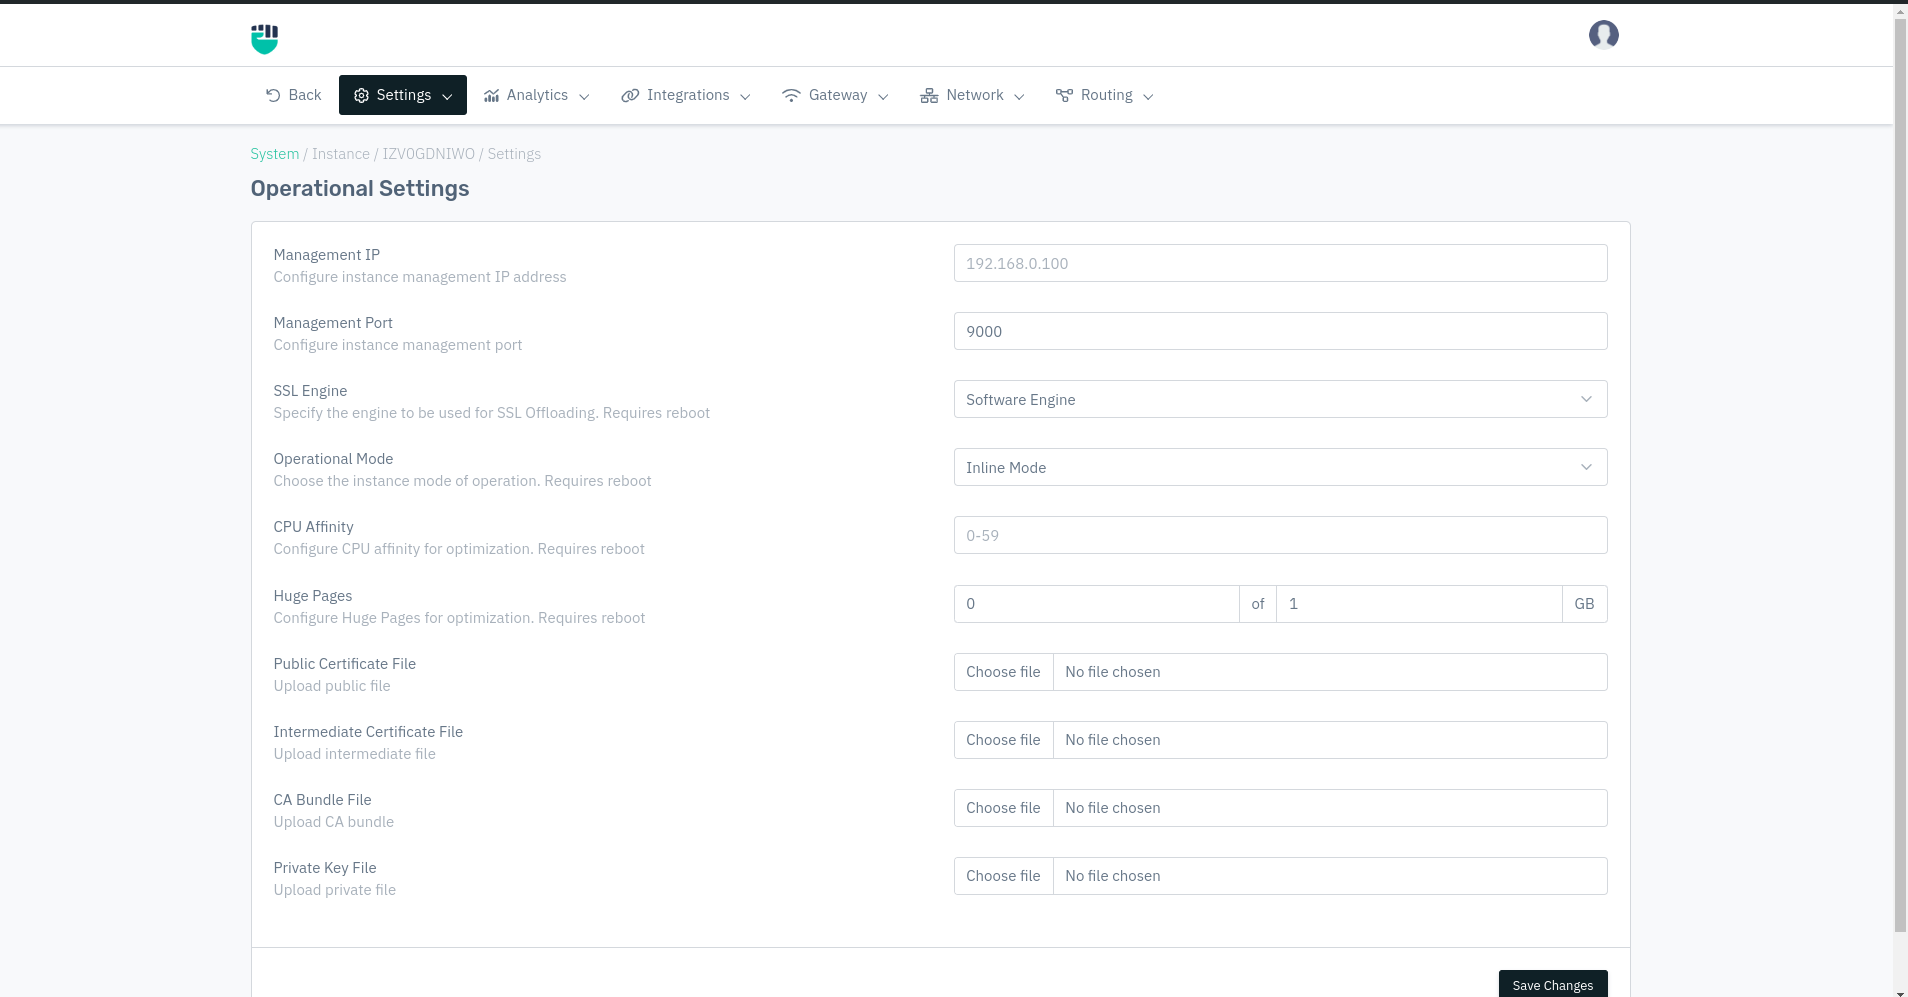
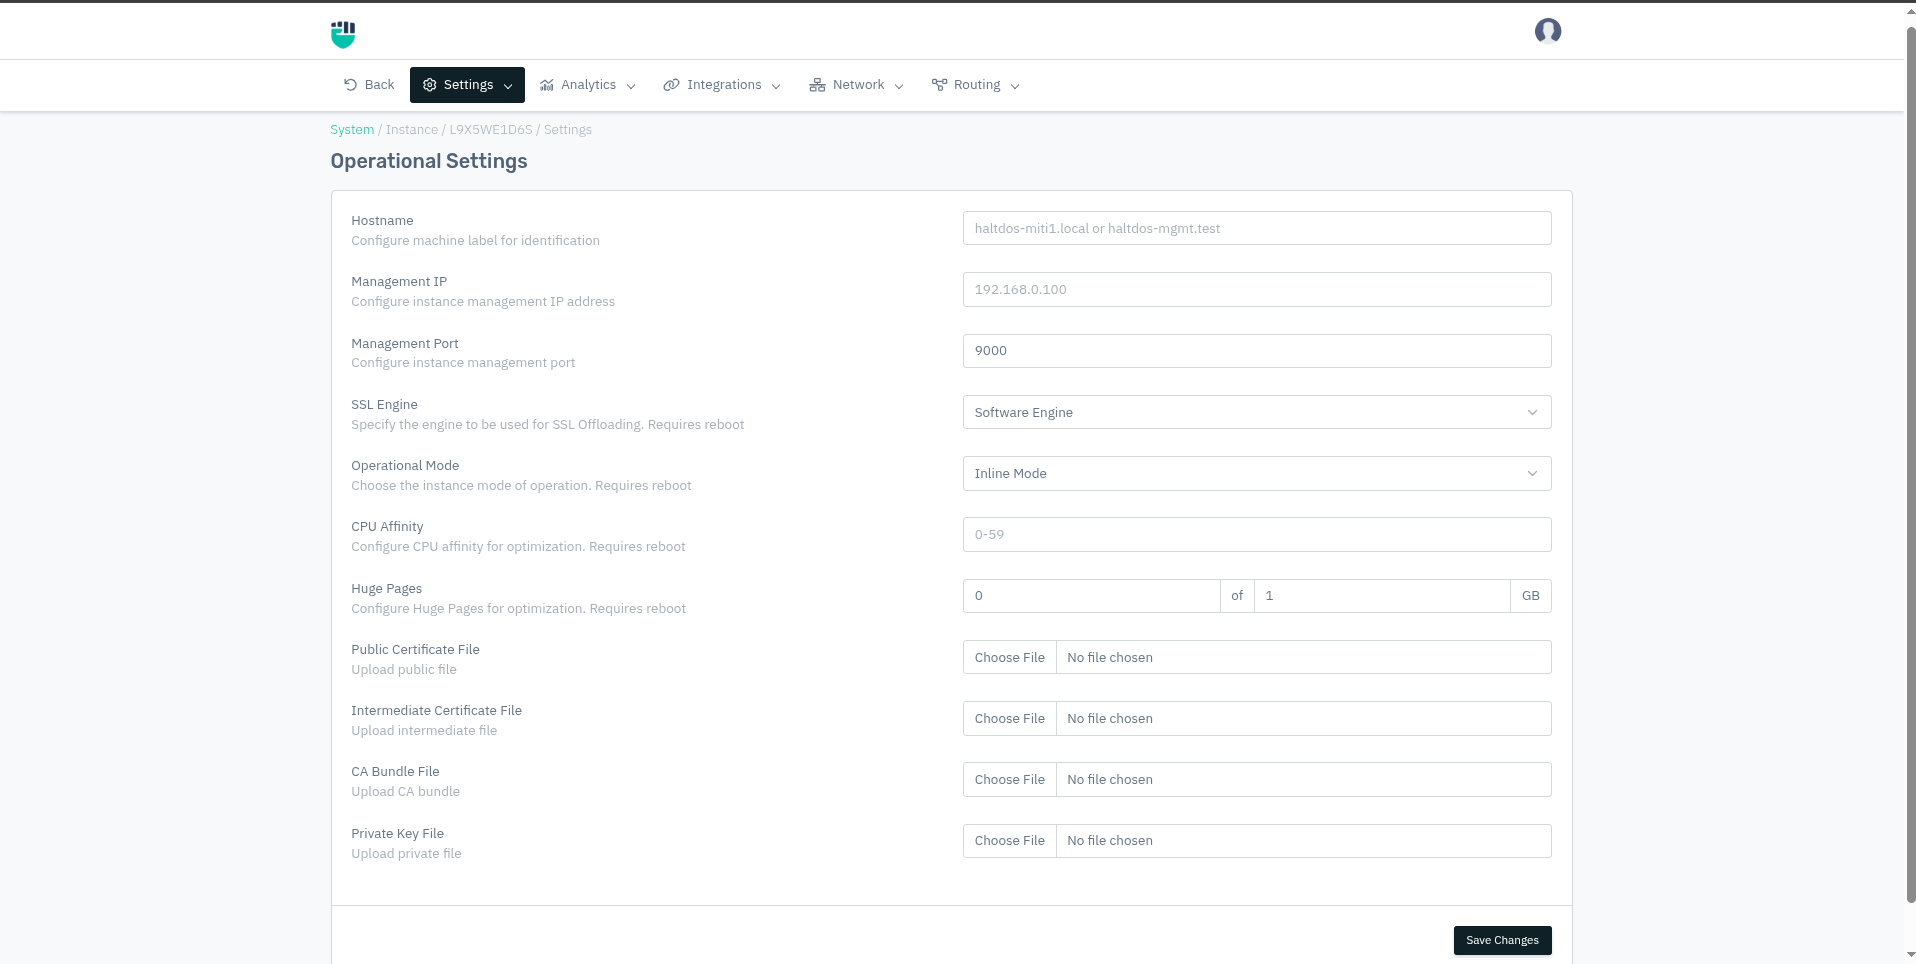
Hostname Field Added In Operational Settings

diff --git a/docs/enterprise/platform/system/management/tacacs.md b/docs/enterprise/platform/system/management/tacacs.md
@@ -6,20 +6,113 @@ sidebar_position: 4
 
 ---
 
-The TACACS+ script is used for authorization purposes and should be configured on an AAA server. This process determines what actions or roles a user is allowed to perform on a Haltdos solution device after they have been authenticated by the AAA server. Typically, this is done by sending an authorization request to a TACACS+ server, which then decides if the user has the necessary permissions to log in to the Haltdos GUI console.
+TACACS+ (Terminal Access Controller Access-Control System Plus) is a protocol used to control who can log into the Haltdos Management Console and what they are allowed to do after logging in. It separates authentication (who are you?), authorization (what can you do?), and accounting (what did you do?) — commonly referred to as **AAA**.
+
+When TACACS+ is enabled, Haltdos sends the login credentials to an external TACACS+ server. The server authenticates the user and returns authorization attributes that determine the user's access level inside Haltdos.
 
 In this process, an authentication request will be generated from the Haltdos solution to the AAA server, which will then authenticate the request and respond back to the Haltdos solution device. After authentication, the Haltdos device will generate an authorization request to the AAA server. In response, the AAA server should return the necessary attributes to complete the authorization. Based on the values received from the AAA server, the Haltdos device will approve login access.
 
 There are various arguments that need to be configured on the authorization server (AAA server), as mentioned below.
 
 
-| Authorization Attribute      | Mandatory |
-| ----------- | ----------- |
-| authority      | Yes       |
-| stacks | yes    |
-| emailId   | No        |
-| access   | Yes     |
-| disable_report | No    |
+| Authorization Attribute | Mandatory |
+| ----------------------- | --------- |
+| authority               | Yes       |
+| stacks                  | Yes       |
+| emailId                 | No        |
+| access                  | Yes       |
+| disable\_report         | No        |
+
+---
+
+## How to Use
+
+1. Go to **Management** > **TACACS**
+2. Configure the TACACS server settings (see Field Descriptions below)
+3. Click **Save Changes**
+4. Go to **Management** > **Administrators** and add a new administrator with **Login Mode** set to `TACACS`
+5. Log out and log back in using the TACACS username and password
+
+---
+
+## Field Descriptions
+
+![TACACS Settings Page](/img/platform/v8/docs/tacacs.png)
+
+### Enabled
+
+Enable or disable login through the TACACS+ server. When enabled, users with Login Mode set to TACACS in the Administrators section will be authenticated via the TACACS+ server.
+
+```
+Accepted Values: Enable / Disable
+Default: Disable
+```
+
+### Endpoint
+
+The IP address or hostname of your TACACS+ server.
+
+```
+Accepted Values: IP address or hostname
+Example: 172.16.0.124
+Default: Blank
+```
+
+### Port
+
+The port on which the TACACS+ server is listening. The standard port for TACACS+ is **49**.
+
+```
+Accepted Values: Integer
+Example: 49
+Default: Blank
+```
+
+:::note
+TACACS+ uses port **49** by default. This is different from RADIUS which uses port 1812. Ensure the TACACS+ server is configured to listen on the same port entered here.
+:::
+
+### Secret Key
+
+A shared secret key configured on both the Haltdos device and the TACACS+ server. This key is used to encrypt communication between them. Both sides must use the **exact same** secret key, or authentication will fail.
+
+```
+Accepted Values: String
+Default: Blank
+```
+
+:::caution
+The Secret Key must match exactly between Haltdos and the TACACS+ server configuration. A mismatch will cause all TACACS+ logins to fail with an authentication error.
+:::
+
+### Authorization Protocol
+
+The protocol used to send the user's password to the TACACS+ server during authentication.
+
+```
+Accepted Values: CHAP / PAP
+Default: Blank
+```
+
+- **PAP (Password Authentication Protocol)** — Sends the password in plain text. Simpler to configure but less secure.
+- **CHAP (Challenge Handshake Authentication Protocol)** — Uses a challenge-response mechanism. The password is never sent directly. More secure than PAP.
+
+:::note
+The protocol selected here must match the password type defined for the user in the TACACS+ server configuration file. If the user is defined with `chap = cleartext "password"` on the server, then CHAP must be selected in Haltdos.
+:::
+
+### Timeout
+
+The time (in milliseconds) Haltdos will wait for a response from the TACACS+ server before considering the login attempt failed.
+
+```
+Accepted Values: Integer
+Example: 5000 (5 seconds)
+Default: Blank
+Metric: Milliseconds
+```
+
+---
 
 ### Description
 
@@ -86,3 +179,13 @@ This field is optional.
     access: ADMIN
     disable_report: false
 ```
+
+## Connection to Other Features
+
+| Feature | Relationship |
+| ------- | ------------ |
+| **Management > Administrators** | Every TACACS+ user must also be added here with Login Mode set to TACACS. The username must match exactly. |
+| **Stack License ID** | The `stacks` attribute in the TACACS+ server must contain your Haltdos stack license ID. |
+| **Email Integration** | If `emailId` and `disable_report: false` are configured, the Email integration must be set up under System > Integrations > Email for report delivery to work. |
+
+---

diff --git a/docs/enterprise/platform/system/instance/settings/operational.md b/docs/enterprise/platform/system/instance/settings/operational.md
@@ -21,6 +21,18 @@ It shows the health status of the Instances, user can select whether to enable t
 
 ### Description
 
+**Hostname**
+
+Configure machine label for identification
+
+```
+    Accepted values: String
+
+    Default: Blank  
+
+    Example: haltdos-miti1.local or haltdos-mgmt.test
+```
+
 ##### Management IP
 
 Configure instance management IP address
